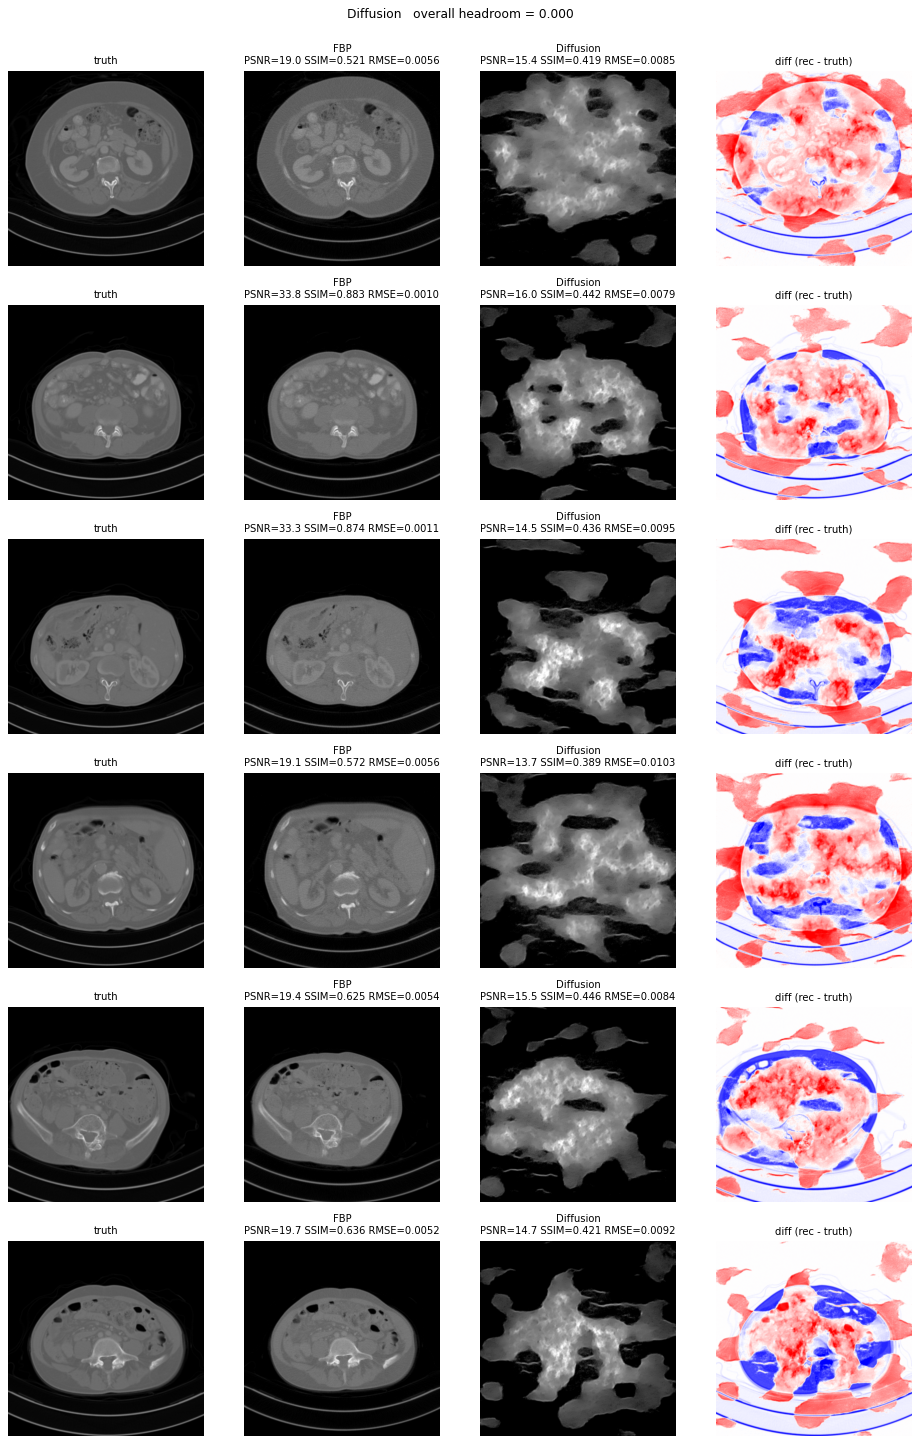
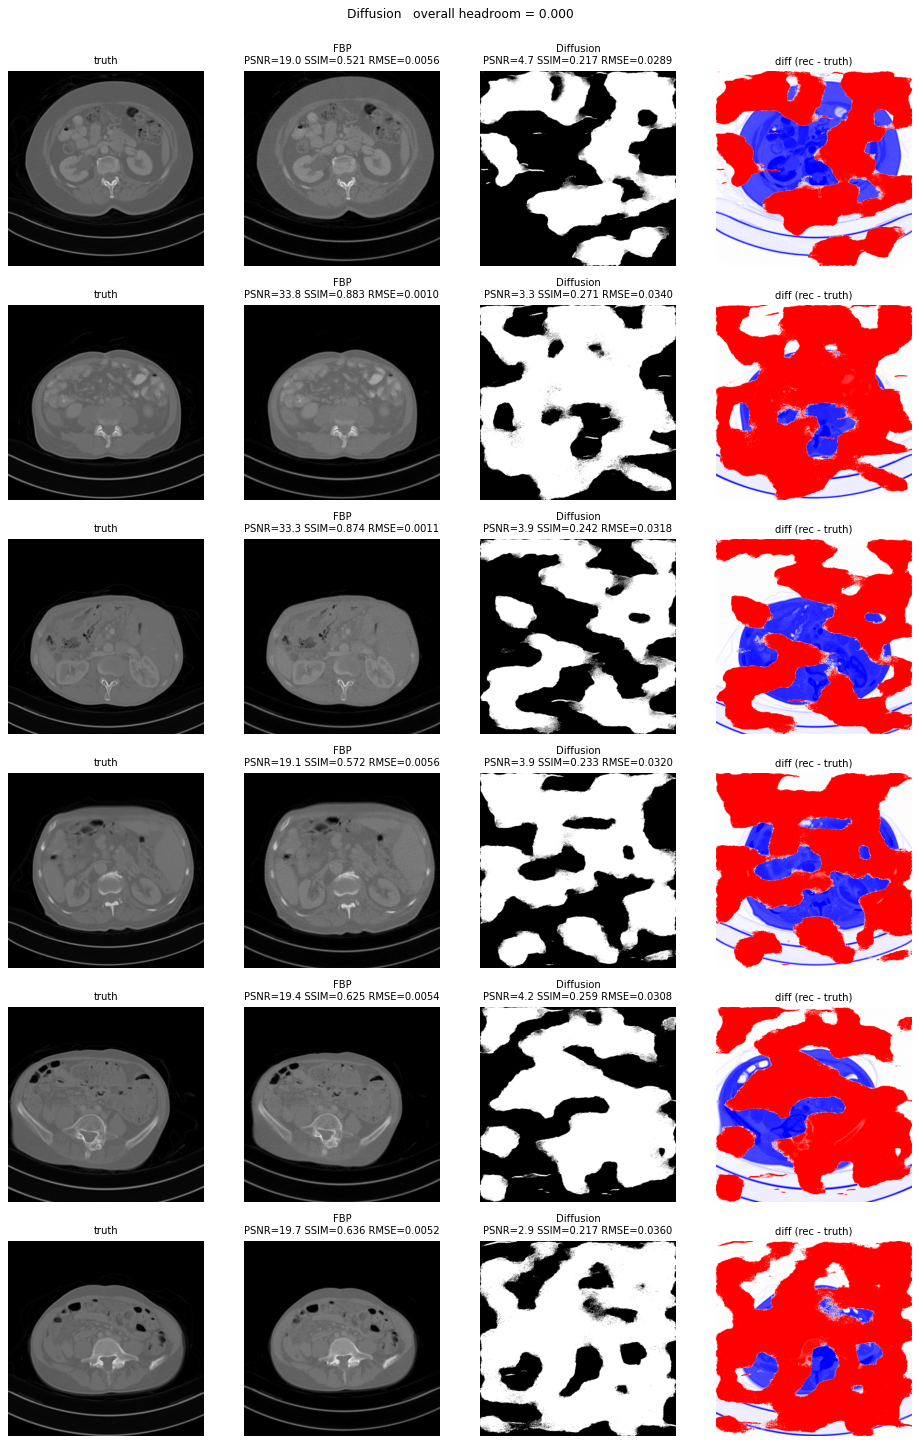
Mayo search-20260619-01: dual_domain_supervised iter-3 + r2gaussian iter-2

Changed region(s): [[0.518, 0.0312, 1.0, 0.9972], [0.7617, 0.0312, 1.0, 0.3428]]

diff --git a/README.md b/README.md
@@ -70,7 +70,7 @@ each board. Click a leaderboard for the full all-solver table.
 |---|---|---:|---:|---|
 | **Breast-CT** (128-view sparse) | Learned Primal-Dual | — | **0.9062** | [`docs/leaderboards/breast_ct.md`](docs/leaderboards/breast_ct.md) |
 | **Demo-DL** (Sidky ellipse, 128-view sparse) | Learned Primal-Dual | — | **0.4947** | [`docs/leaderboards/demo_dl.md`](docs/leaderboards/demo_dl.md) |
-| **Mayo-LDCT** (Wagner split, real helical) | DD-UNet supervised L2 | 0.9098 | **0.3390** | [`docs/leaderboards/mayo_ldct.md`](docs/leaderboards/mayo_ldct.md) |
+| **Mayo-LDCT** (Wagner split, real helical) | DD-UNet supervised L2 | 0.9182 | **0.3654** | [`docs/leaderboards/mayo_ldct.md`](docs/leaderboards/mayo_ldct.md) |
 <!--/REGISTRY_TABLE-->
 
 Mayo-LDCT was **RESET on 2026-06-19** (the second reset). The 2026-06-14
